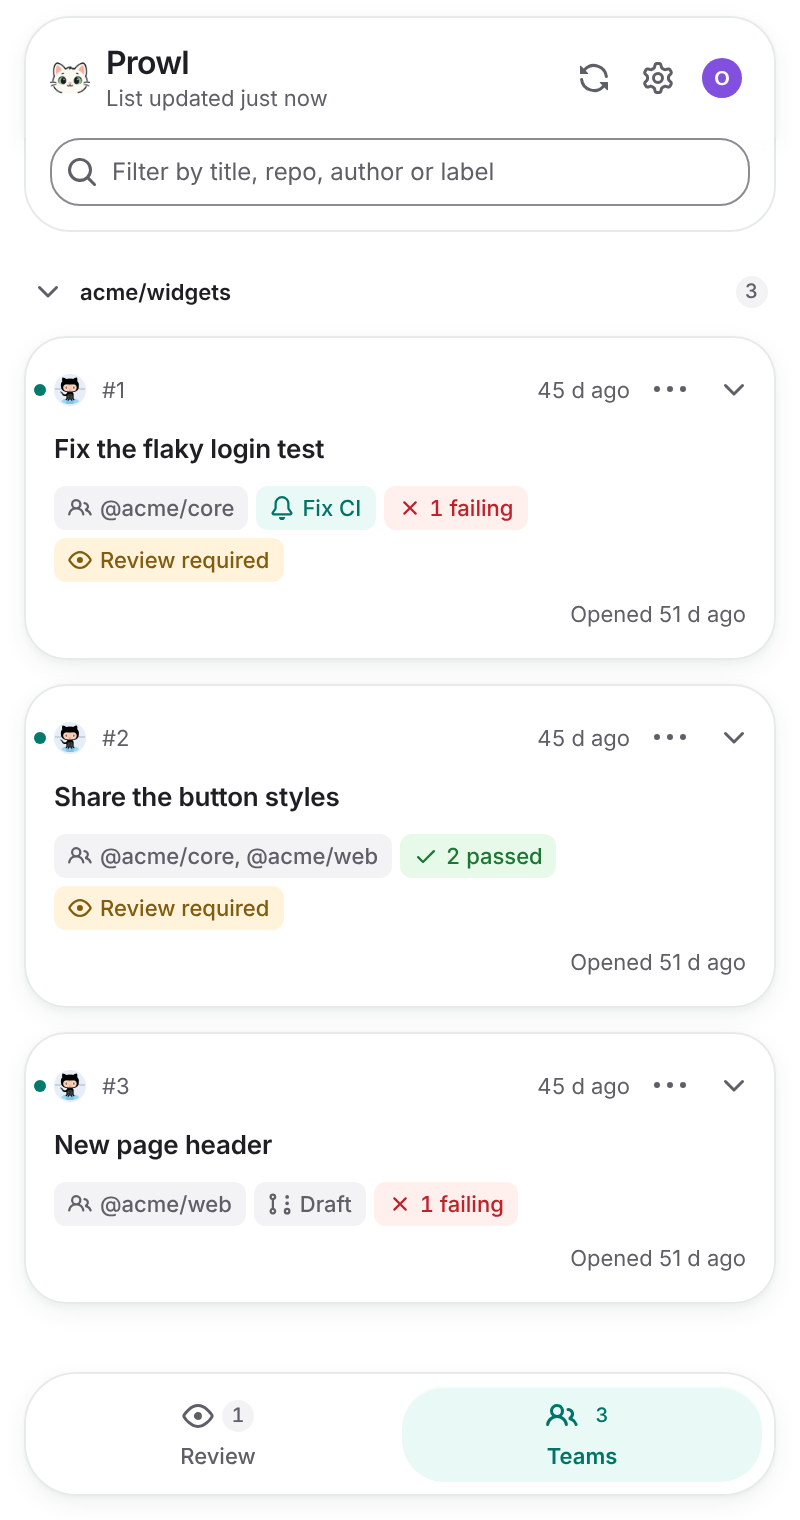
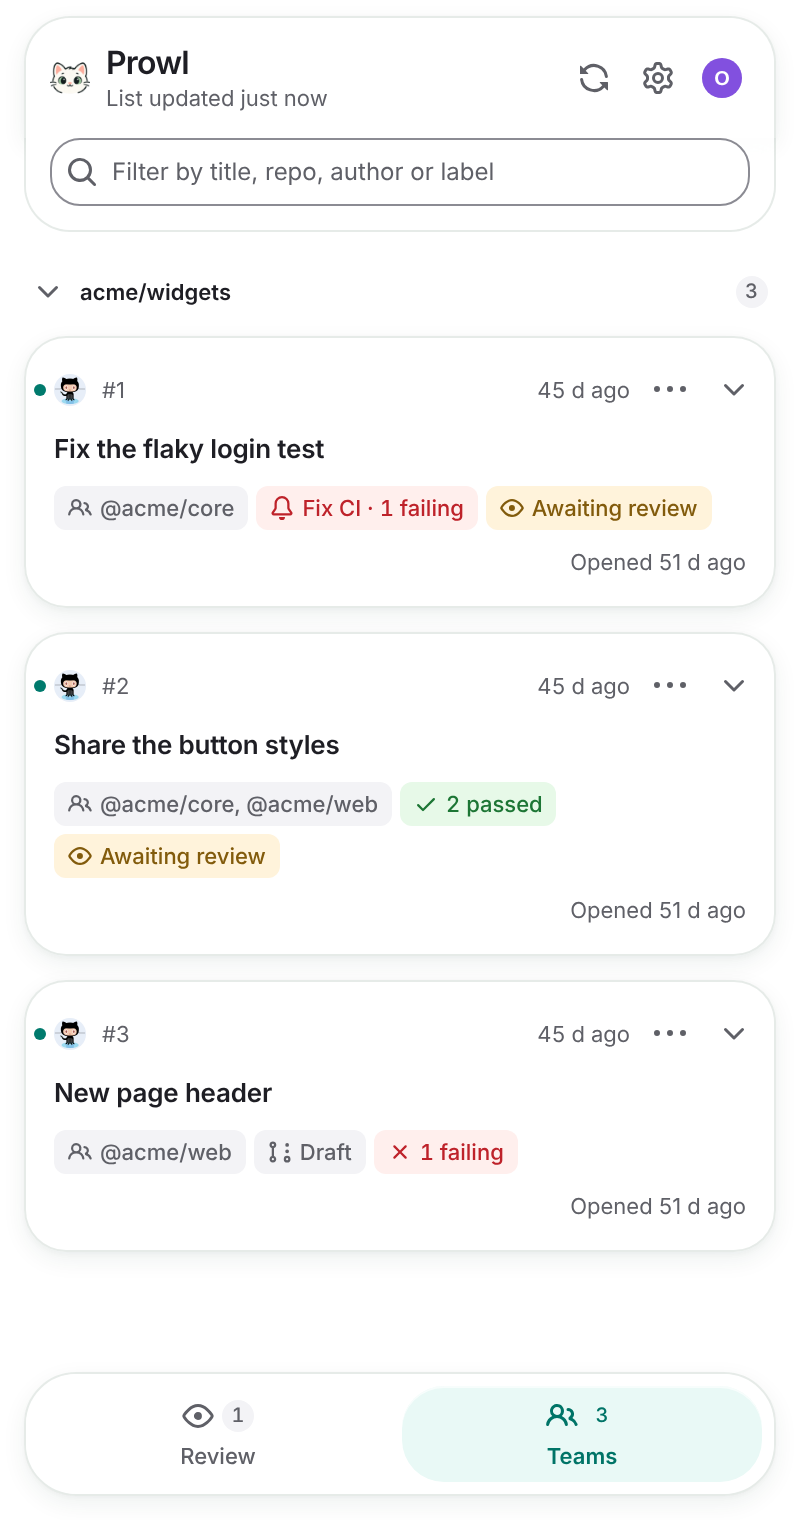
test(e2e): follow the fused chips, refresh screenshots
Claude-Session: https://claude.ai/code/session_01DJF4RucRW6yD1TF1hTz2fT

diff --git a/tests/e2e/list.spec.ts b/tests/e2e/list.spec.ts
@@ -213,7 +213,8 @@ test.describe('with a rich set of pull requests', () => {
 
     await expect(cardFor(panel, /^WIP: migrate/)).toContainText('Draft');
     await expect(cardFor(panel, /^WIP: migrate/)).toContainText('3 pending');
-    await expect(cardFor(panel, /^Fix crash when rotating/)).toContainText('Conflicts');
+    // The viewer's own conflicting PR: the conflicts chip is the action (one chip per fact).
+    await expect(cardFor(panel, /^Fix crash when rotating/)).toContainText('Resolve conflicts');
     await expect(cardFor(panel, /^Add rate limiting/)).toContainText('Ready to merge');
     await expect(cardFor(panel, /^Dark mode: fix contrast/)).toContainText('1 pending');
     await expect(cardFor(panel, /^Dark mode: fix contrast/)).toContainText('Approved');

diff --git a/tests/e2e/card-tools.spec.ts b/tests/e2e/card-tools.spec.ts
@@ -66,7 +66,7 @@ test.describe('card tools', () => {
     const panel = await openPanel();
     await panel.getByRole('tab', { name: /^Your turn/ }).click();
     await expect(panel.locator('.turn-summary')).toContainText('Waiting on you');
-    await expect(panel.getByText('Fix CI · 1 failing', { exact: true }).first()).toBeVisible();
+    await expect(panel.getByText(/^Fix CI · \d+ failing$/).first()).toBeVisible();
     await expectNoA11yViolations(panel);
     await saveScreenshot(panel, 'your-turn');
   });
